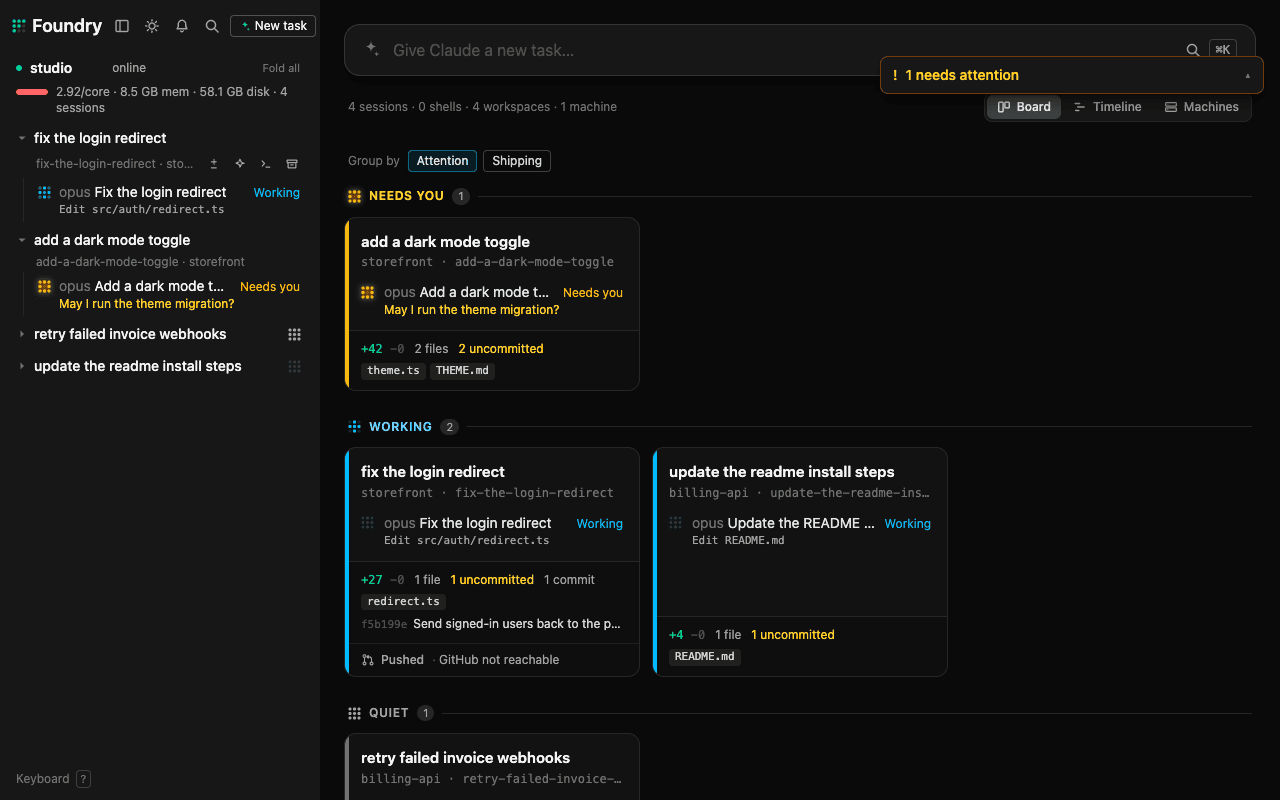
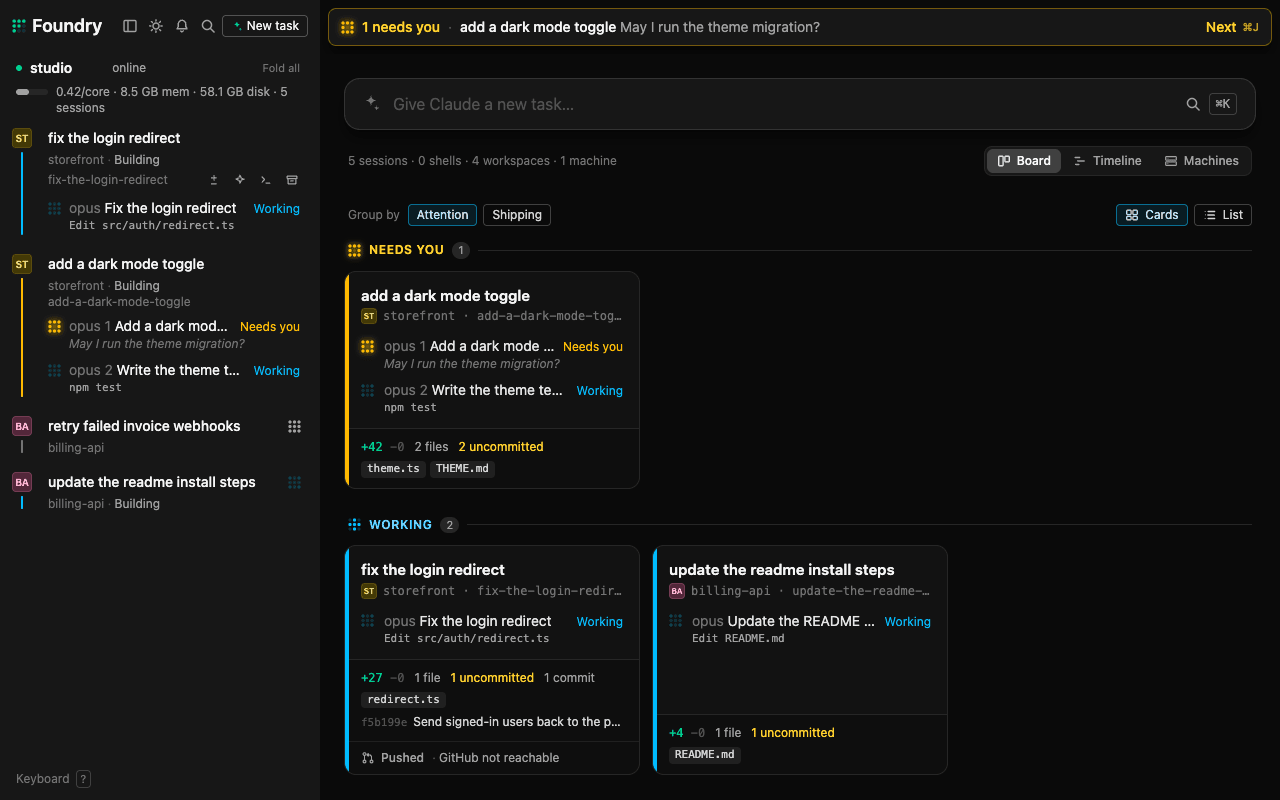
feat: each sidebar workspace hangs a state spine from its project face, so you can see where one task ends (#379)
* test: a sidebar workspace hangs a state spine from its face in its ow…

…n column

Red: no spine element, the fold button still holds the chevron, the session
list keeps its own left rule, and workspaces sit space-y-1 apart.

Issue: #368

* feat: each sidebar workspace hangs a state spine from its project face

The face moves into its own 20px column, still inside the one fold button
with the name, and a 2px spine hangs from it in the fill of the
workspace's most urgent terminal, the same choice the board's card edge
makes. The chevron and the session list's own rule go; workspaces under a
machine sit 12px apart.

Issue: #368

* test: pin the face to its own column and the session list to no offse…

…t of its own

Review nits testing-1 and testing-2: assert the face is drawn absolute over
its column and the list carries no margin or padding of its own, and name
the spine test for the fills it checks. Green on the existing change.

Issue: #368

* docs: the guide says to click a workspace's face or name to unfold it…

…, describes the spine, and shows the new sidebar

* Merge remote-tracking branch 'origin/main' into fac/368-1

diff --git a/web/src/Sidebar.tsx b/web/src/Sidebar.tsx
@@ -10,7 +10,7 @@ import { loadUnfolded, saveUnfolded } from "./fold";
 import { branchOf, byUrgency, machineNumbers, machineStats, rows, type MachineView, type Row, type WorkspaceView } from "./fleet";
 import { FactoryMark } from "./FactoryMark";
 import { MachineName } from "./Machines";
-import { glyphText, StateGlyph } from "./StateGlyph";
+import { glyphFill, glyphText, StateGlyph } from "./StateGlyph";
 import { ended } from "./ends";
 import { ARCHIVE_ICON, TerminalMenu, useTerminalActions } from "./TerminalMenu";
 import { SessionNameField, useRenaming } from "./SessionName";
@@ -236,7 +236,7 @@ export function Sidebar({ machines, onCreate, selected, onNavigate, onClose, onJ
                   </span>
                 </div>
               </div>
-              <div className="space-y-1">
+              <div className="space-y-3">
                 {machine.workspaces.map((workspace) => (
                   <Workspace
                     key={workspace.id}
@@ -301,81 +301,87 @@ interface WorkspaceProps {
   tab: (id: string) => { tabIndex: number; onFocus: () => void };
 }
 
+/**
+ * A workspace in two columns: its project's face, with a spine hanging from it in its most urgent
+ * terminal's fill (the board's card edge, so the two always match), and beside it everything else.
+ * The face sits in the fold button with the name, drawn over its own column, so they are one stop.
+ */
 function Workspace({ workspace, folded, readable, onFold, selected, onNavigate, onChanges, tab }: WorkspaceProps) {
   const shell = useMutation({ mutationFn: () => startShell(workspace.id) });
   const terminals = useTerminalActions();
   const list = rows(workspace);
   const over = ended(workspace);
+  const lead = byUrgency(list)[0];
   return (
-    <div role="group" aria-label={workspace.name} className="group/ws">
-      <div className="flex items-center gap-2 rounded-md px-1 py-1 hover:bg-neutral-800/60">
-        <button
-          type="button"
-          aria-expanded={!folded}
-          onClick={() => onFold(!folded)}
-          data-stop={workspace.id}
-          data-workspace={workspace.id}
-          data-name={workspace.name}
-          {...tab(workspace.id)}
-          title={folded ? "Unfold" : "Fold"}
-          className="flex min-w-0 flex-1 items-center gap-1.5 text-left"
-        >
-          <svg viewBox="0 0 16 16" aria-hidden="true" className={`size-3 shrink-0 text-neutral-500 transition-transform motion-reduce:transition-none ${folded ? "" : "rotate-90"}`} fill="currentColor">
-            <path d="M6 3.5l5 4.5-5 4.5z" />
-          </svg>
-          <ProjectFace project={workspace.project} className="size-[18px] text-[9px]" />
-          <span className="truncate font-medium">{workspace.name}</span>
-        </button>
-        {workspace.factory && <FactoryMark run={workspace.factory} />}
-        {folded && <Strip list={list} workspace={workspace.id} selected={selected} onNavigate={onNavigate} tab={tab} />}
-      </div>
-      <StandingLine workspace={workspace} list={list} readable={readable} />
-      {!folded && (
-        <>
-          <div className="flex items-center gap-2 pl-6 pr-1">
-            <span className="min-w-0 flex-1 truncate text-xs text-neutral-500">
-              {branchOf(workspace)}
-            </span>
-            <div className="flex shrink-0 items-center gap-0.5 pointer-fine:hidden pointer-fine:group-focus-within/ws:flex pointer-fine:group-hover/ws:flex">
-              {onChanges && (
-                <Action label="Changes" title={words.changes} onClick={() => onChanges(workspace.id)}>
-                  <path d="M8 2.5v6M5 5.5h6M5 12.5h6" />
+    <div role="group" aria-label={workspace.name} className="group/ws relative grid grid-cols-[1.25rem_minmax(0,1fr)] gap-x-2">
+      <span aria-hidden="true" data-spine="" className={`mx-auto mt-7 mb-[3px] w-0.5 rounded-full ${lead ? glyphFill[lead.glyph] : "bg-neutral-800"}`} />
+      <div className="min-w-0">
+        <div className="flex items-center gap-2 rounded-md py-1 pr-1 pl-2 hover:bg-neutral-800/60">
+          <button
+            type="button"
+            aria-expanded={!folded}
+            onClick={() => onFold(!folded)}
+            data-stop={workspace.id}
+            data-workspace={workspace.id}
+            data-name={workspace.name}
+            {...tab(workspace.id)}
+            title={folded ? "Unfold" : "Fold"}
+            className="flex min-w-0 flex-1 items-center text-left"
+          >
+            <ProjectFace project={workspace.project} className="absolute top-1 left-0 size-5 text-[10px]" />
+            <span className="truncate font-medium">{workspace.name}</span>
+          </button>
+          {workspace.factory && <FactoryMark run={workspace.factory} />}
+          {folded && <Strip list={list} workspace={workspace.id} selected={selected} onNavigate={onNavigate} tab={tab} />}
+        </div>
+        <StandingLine workspace={workspace} list={list} readable={readable} />
+        {!folded && (
+          <>
+            <div className="flex items-center gap-2 pr-1 pl-2">
+              <span className="min-w-0 flex-1 truncate text-xs text-neutral-500">
+                {branchOf(workspace)}
+              </span>
+              <div className="flex shrink-0 items-center gap-0.5 pointer-fine:hidden pointer-fine:group-focus-within/ws:flex pointer-fine:group-hover/ws:flex">
+                {onChanges && (
+                  <Action label="Changes" title={words.changes} onClick={() => onChanges(workspace.id)}>
+                    <path d="M8 2.5v6M5 5.5h6M5 12.5h6" />
+                  </Action>
+                )}
+                {terminals && (
+                  <Action label="New session" title="Start Claude Code in this workspace" onClick={() => terminals.onNewSession(workspace.id, workspace.name)}>
+                    <path d="M8 2.5l1.3 3.2 3.2 1.3-3.2 1.3L8 11.5 6.7 8.3 3.5 7l3.2-1.3z" />
+                  </Action>
+                )}
+                <Action label="New shell" title="Open a shell in this workspace" onClick={() => shell.mutate()} disabled={shell.isPending}>
+                  <path d="M3.5 4.5l3 3-3 3M8 11.5h4.5" />
                 </Action>
-              )}
-              {terminals && (
-                <Action label="New session" title="Start Claude Code in this workspace" onClick={() => terminals.onNewSession(workspace.id, workspace.name)}>
-                  <path d="M8 2.5l1.3 3.2 3.2 1.3-3.2 1.3L8 11.5 6.7 8.3 3.5 7l3.2-1.3z" />
-                </Action>
-              )}
-              <Action label="New shell" title="Open a shell in this workspace" onClick={() => shell.mutate()} disabled={shell.isPending}>
-                <path d="M3.5 4.5l3 3-3 3M8 11.5h4.5" />
-              </Action>
-              {terminals && over.length > 0 && (
-                <Action label={`Clear ${over.length} ended`} title="Clear the terminals that ended, with their final screens" onClick={() => terminals.clear(over)}>
-                  <path d="M11.5 2l-3 6M4 8h7l1 5.5H3zM6 10.5v3M9 10.5v3" />
-                </Action>
-              )}
-              {terminals && (
-                <Action label="Archive" title={words.archive} onClick={() => terminals.archive(workspace.id)}>
-                  <path d={ARCHIVE_ICON} />
-                </Action>
-              )}
+                {terminals && over.length > 0 && (
+                  <Action label={`Clear ${over.length} ended`} title="Clear the terminals that ended, with their final screens" onClick={() => terminals.clear(over)}>
+                    <path d="M11.5 2l-3 6M4 8h7l1 5.5H3zM6 10.5v3M9 10.5v3" />
+                  </Action>
+                )}
+                {terminals && (
+                  <Action label="Archive" title={words.archive} onClick={() => terminals.archive(workspace.id)}>
+                    <path d={ARCHIVE_ICON} />
+                  </Action>
+                )}
+              </div>
             </div>
-          </div>
-          {shell.error && (
-            <p role="alert" className="pl-6 text-xs text-red-400">
-              {couldNot("start a shell", shell.error)}
-            </p>
-          )}
-          {list.length > 0 && (
-            <ul className="ml-[11px] mt-0.5 border-l border-neutral-800 pl-1.5">
-              {list.map((row) => (
-                <Item key={row.terminal} row={row} workspace={workspace.id} selected={selected} onNavigate={onNavigate} tab={tab} />
-              ))}
-            </ul>
-          )}
-        </>
-      )}
+            {shell.error && (
+              <p role="alert" className="pl-2 text-xs text-red-400">
+                {couldNot("start a shell", shell.error)}
+              </p>
+            )}
+            {list.length > 0 && (
+              <ul className="mt-0.5">
+                {list.map((row) => (
+                  <Item key={row.terminal} row={row} workspace={workspace.id} selected={selected} onNavigate={onNavigate} tab={tab} />
+                ))}
+              </ul>
+            )}
+          </>
+        )}
+      </div>
     </div>
   );
 }
@@ -407,7 +413,7 @@ function StandingLine({ workspace, list, readable }: { workspace: WorkspaceView;
   const working = list.some((r) => r.glyph === "starting" || r.glyph === "working");
   const stands = readable && data && !isError ? standing(data, working) : undefined;
   return (
-    <p ref={ref} title={stands ? `${workspace.project} · ${stands.text}` : workspace.project} className="truncate pl-6 pr-1 text-xs text-neutral-500">
+    <p ref={ref} title={stands ? `${workspace.project} · ${stands.text}` : workspace.project} className="truncate pr-1 pl-2 text-xs text-neutral-500">
       <span>{workspace.project}</span>
       {stands && (
         <>

diff --git a/web/src/Sidebar.test.tsx b/web/src/Sidebar.test.tsx
@@ -56,6 +56,67 @@ describe("Sidebar", () => {
     expect(face.getAttribute("aria-hidden")).toBe("true");
   });
 
+  it("hangs a spine from each workspace's face in its most urgent terminal's fill, grey with no terminals", async () => {
+    const records = [
+      sample(ME, 1),
+      workspace(ME, "w1", "asks"),
+      terminal(ME, "t1", "w1"),
+      session(ME, "s1", "w1", "t1", "working"),
+      terminal(ME, "t2", "w1"),
+      session(ME, "s2", "w1", "t2", "waiting_for_you"),
+      workspace(ME, "w2", "quiet"),
+      terminal(ME, "t3", "w2"),
+      session(ME, "s3", "w2", "t3", "finished"),
+      terminal(ME, "t4", "w2", "unreachable"),
+      workspace(ME, "w3", "bare"),
+    ];
+    const view = fleet(records, settings({ machines: [{ id: ME, name: "studio", address: "" }] }));
+    await renderApp(<Sidebar machines={view} {...props} />);
+    const spine = (name: string) => screen.getByRole("group", { name }).querySelector<HTMLElement>("[data-spine]")!;
+
+    expect(spine("asks").className).toMatch(/(^| )bg-amber-400( |$)/);
+    expect(spine("quiet").className).toMatch(/(^| )bg-neutral-600( |$)/);
+    expect(spine("bare").className).toMatch(/(^| )bg-neutral-800( |$)/);
+    // It draws what the glyphs already say, so a screen reader skips it.
+    expect(spine("bare").getAttribute("aria-hidden")).toBe("true");
+    // It stays when the workspace unfolds, still one colour for the whole task.
+    unfold("asks");
+    expect(spine("asks").className).toMatch(/(^| )bg-amber-400( |$)/);
+  });
+
+  it("lays a workspace out as its face's column beside one of everything else, the face and name one fold button with no chevron", async () => {
+    await renderApp(<Sidebar machines={machines()} {...props} />);
+    const group = screen.getByRole("group", { name: "fix login" });
+    const button = within(group).getByRole("button", { name: "fix login" });
+
+    expect(button.getAttribute("aria-expanded")).toBe("false");
+    expect(button.getAttribute("title")).toBe("Unfold");
+    expect(button.contains(within(group).getByText("DE"))).toBe(true);
+    expect(button.querySelector("svg")).toBeNull();
+    // Drawn over its own column, left of the content, while it stays part of the button.
+    expect(within(group).getByText("DE").className).toMatch(/(^| )size-5( |$)/);
+    expect(within(group).getByText("DE").className).toMatch(/(^| )absolute( |$)/);
+
+    unfold("fix login");
+    expect(button.getAttribute("aria-expanded")).toBe("true");
+    expect(button.getAttribute("title")).toBe("Fold");
+    // The name, the standing line, the branch line and the sessions share the content column.
+    const content = button.closest<HTMLElement>(".min-w-0:not(button)")!;
+    expect(content.contains(within(group).getByText(/fix-login/))).toBe(true);
+    const sessions = within(group).getAllByRole("listitem")[0].parentElement!;
+    expect(content.contains(sessions)).toBe(true);
+    expect(content.contains(group.querySelector("[data-spine]"))).toBe(false);
+    // The spine takes the place of the list's own rule, and the rows' own padding lines their glyphs up with the name.
+    expect(sessions.className).not.toMatch(/border-l|(^| )-?m[lx]-|(^| )p[lx]-/);
+  });
+
+  it("sets the workspaces under a machine 12px apart, so each task reads as one block", async () => {
+    await renderApp(<Sidebar machines={machines()} {...props} />);
+    const list = screen.getByRole("group", { name: "fix login" }).parentElement!;
+
+    expect(list.className).toMatch(/(^| )(space-y-3|gap-3)( |$)/);
+  });
+
   it("shows each machine with its state (offline: one session is unreachable) and numbers", async () => {
     await renderApp(<Sidebar machines={machines()} {...props} />);
 

diff --git a/docs/guide/board.md b/docs/guide/board.md
@@ -118,9 +118,11 @@ The sidebar is the same fleet as a list. It sits at the left on a wide screen. F
 
 ### Folding
 
-A folded workspace is one row: its project's face, its name and a strip of state glyphs, most urgent first. The strip shows six, then "+N". Click a glyph to open that terminal. Click the name, or the arrow, to unfold.
+A folded workspace is one row: its project's face, its name and a strip of state glyphs, most urgent first. The strip shows six, then "+N". Click a glyph to open that terminal. Click the face or the name to unfold.
 
 Under its name, a folded workspace shows its project, then where its work stands, such as "Draft PR #307 · Checks running", "Building", "Pushed · No PR yet" or "PR #9 merged", the pull request a link to it on GitHub. An unfolded workspace shows the same line, then its branch with a row of actions, and every terminal with its state label and what it is doing.
+
+A thin bar hangs from each workspace's face to its bottom, folded or not, so you can see where one workspace ends and the next begins. It takes the colour of the workspace's most urgent terminal, the same colour as the bar on its board card.
 
 The workspace you are in unfolds by itself and folds again when you leave. One you unfolded yourself stays open. Which are open is kept in this browser.
 
